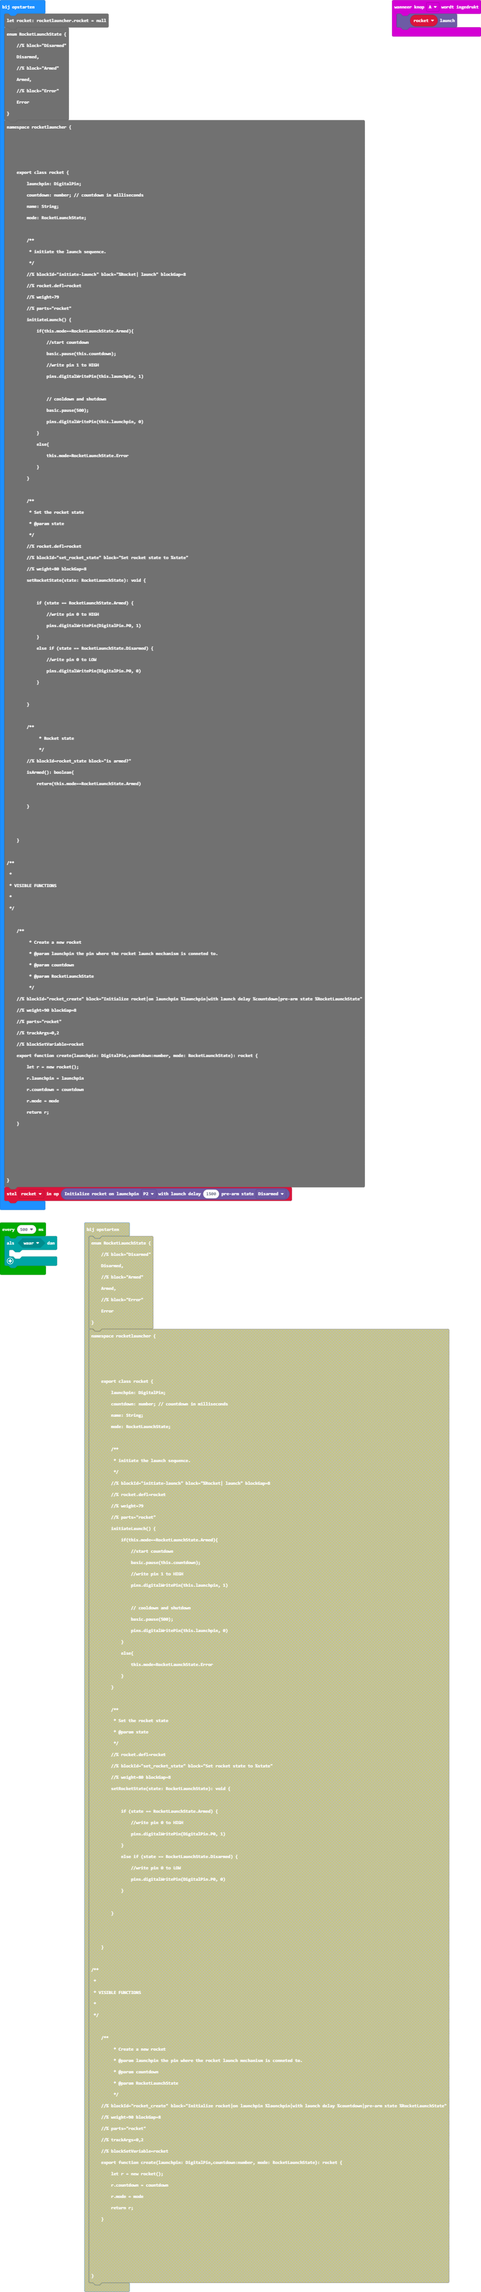
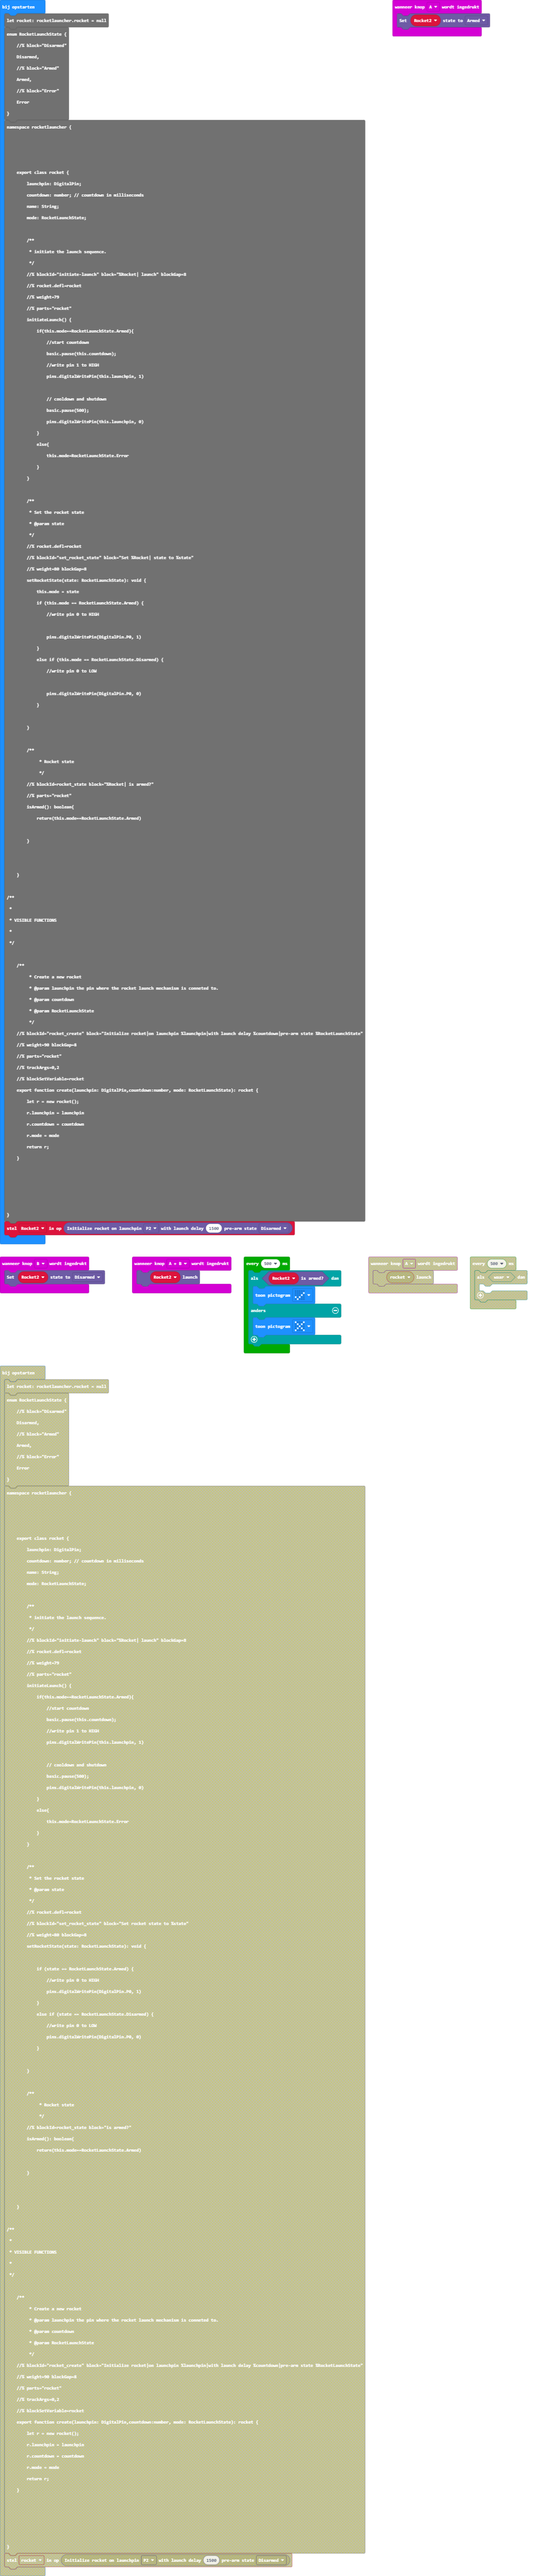
main.blocks, main.ts bijwerken

diff --git a/main.ts b/main.ts
@@ -1,6 +1,13 @@
 input.onButtonPressed(Button.A, function () {
-    rocket.initiateLaunch()
+    Rocket2.setRocketState(RocketLaunchState.Armed)
 })
+input.onButtonPressed(Button.AB, function () {
+    Rocket2.initiateLaunch()
+})
+input.onButtonPressed(Button.B, function () {
+    Rocket2.setRocketState(RocketLaunchState.Disarmed)
+})
+let Rocket2: rocketlauncher.rocket = null
 let rocket: rocketlauncher.rocket = null
 enum RocketLaunchState {
     //% block="Disarmed"
@@ -48,16 +55,18 @@ namespace rocketlauncher {
          * @param state
          */
         //% rocket.defl=rocket
-        //% blockId="set_rocket_state" block="Set rocket state to %state"
+        //% blockId="set_rocket_state" block="Set %Rocket| state to %state"
         //% weight=80 blockGap=8
         setRocketState(state: RocketLaunchState): void {
-
-            if (state == RocketLaunchState.Armed) {
+            this.mode = state
+            if (this.mode == RocketLaunchState.Armed) {
                 //write pin 0 to HIGH 
+                
                 pins.digitalWritePin(DigitalPin.P0, 1)
             }
-            else if (state == RocketLaunchState.Disarmed) {
+            else if (this.mode == RocketLaunchState.Disarmed) {
                 //write pin 0 to LOW
+            
                 pins.digitalWritePin(DigitalPin.P0, 0)
             }
 
@@ -105,9 +114,11 @@ namespace rocketlauncher {
 
     
 }
-rocket = rocketlauncher.create(DigitalPin.P2, 1500, RocketLaunchState.Disarmed)
+Rocket2 = rocketlauncher.create(DigitalPin.P2, 1500, RocketLaunchState.Disarmed)
 loops.everyInterval(500, function () {
-    if (true) {
-    	
+    if (Rocket2.isArmed()) {
+        basic.showIcon(IconNames.Yes)
+    } else {
+        basic.showIcon(IconNames.No)
     }
 })
